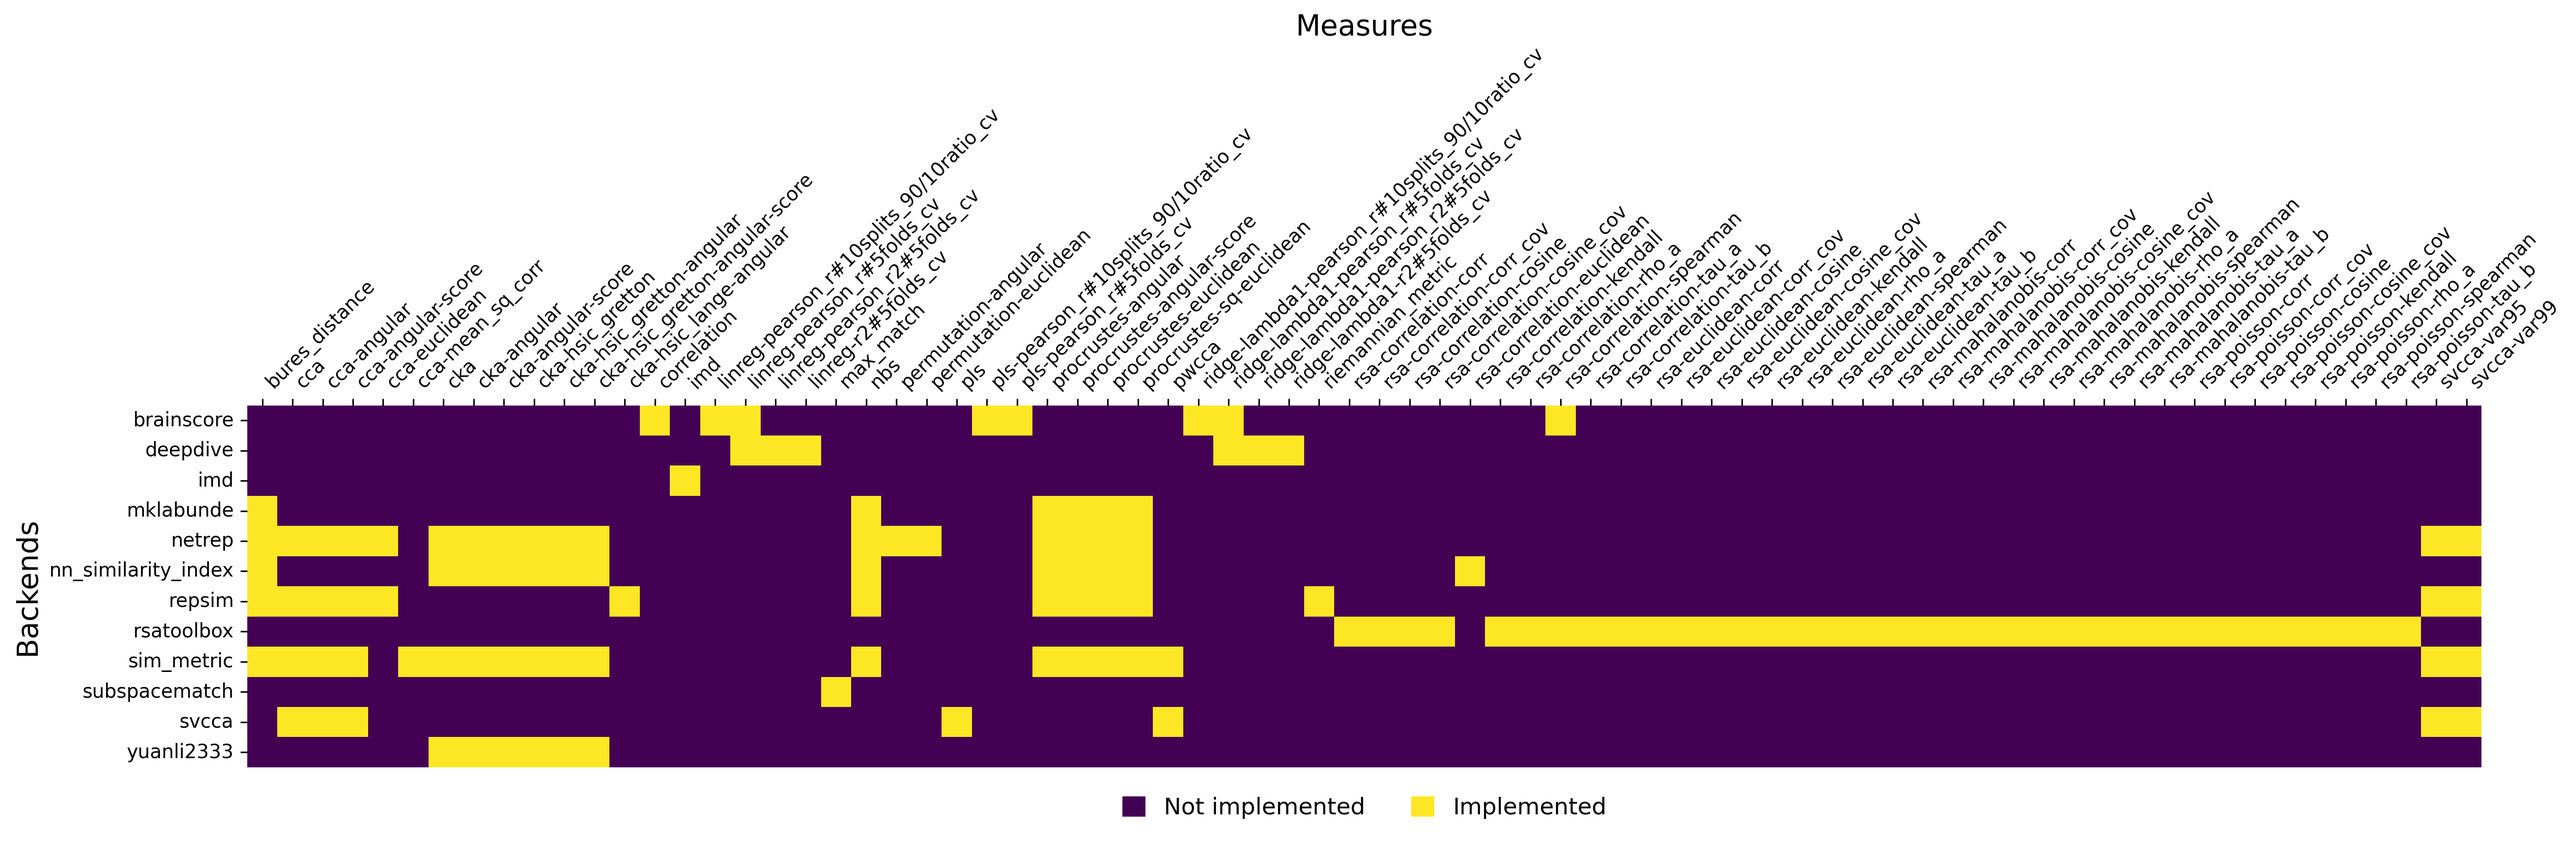
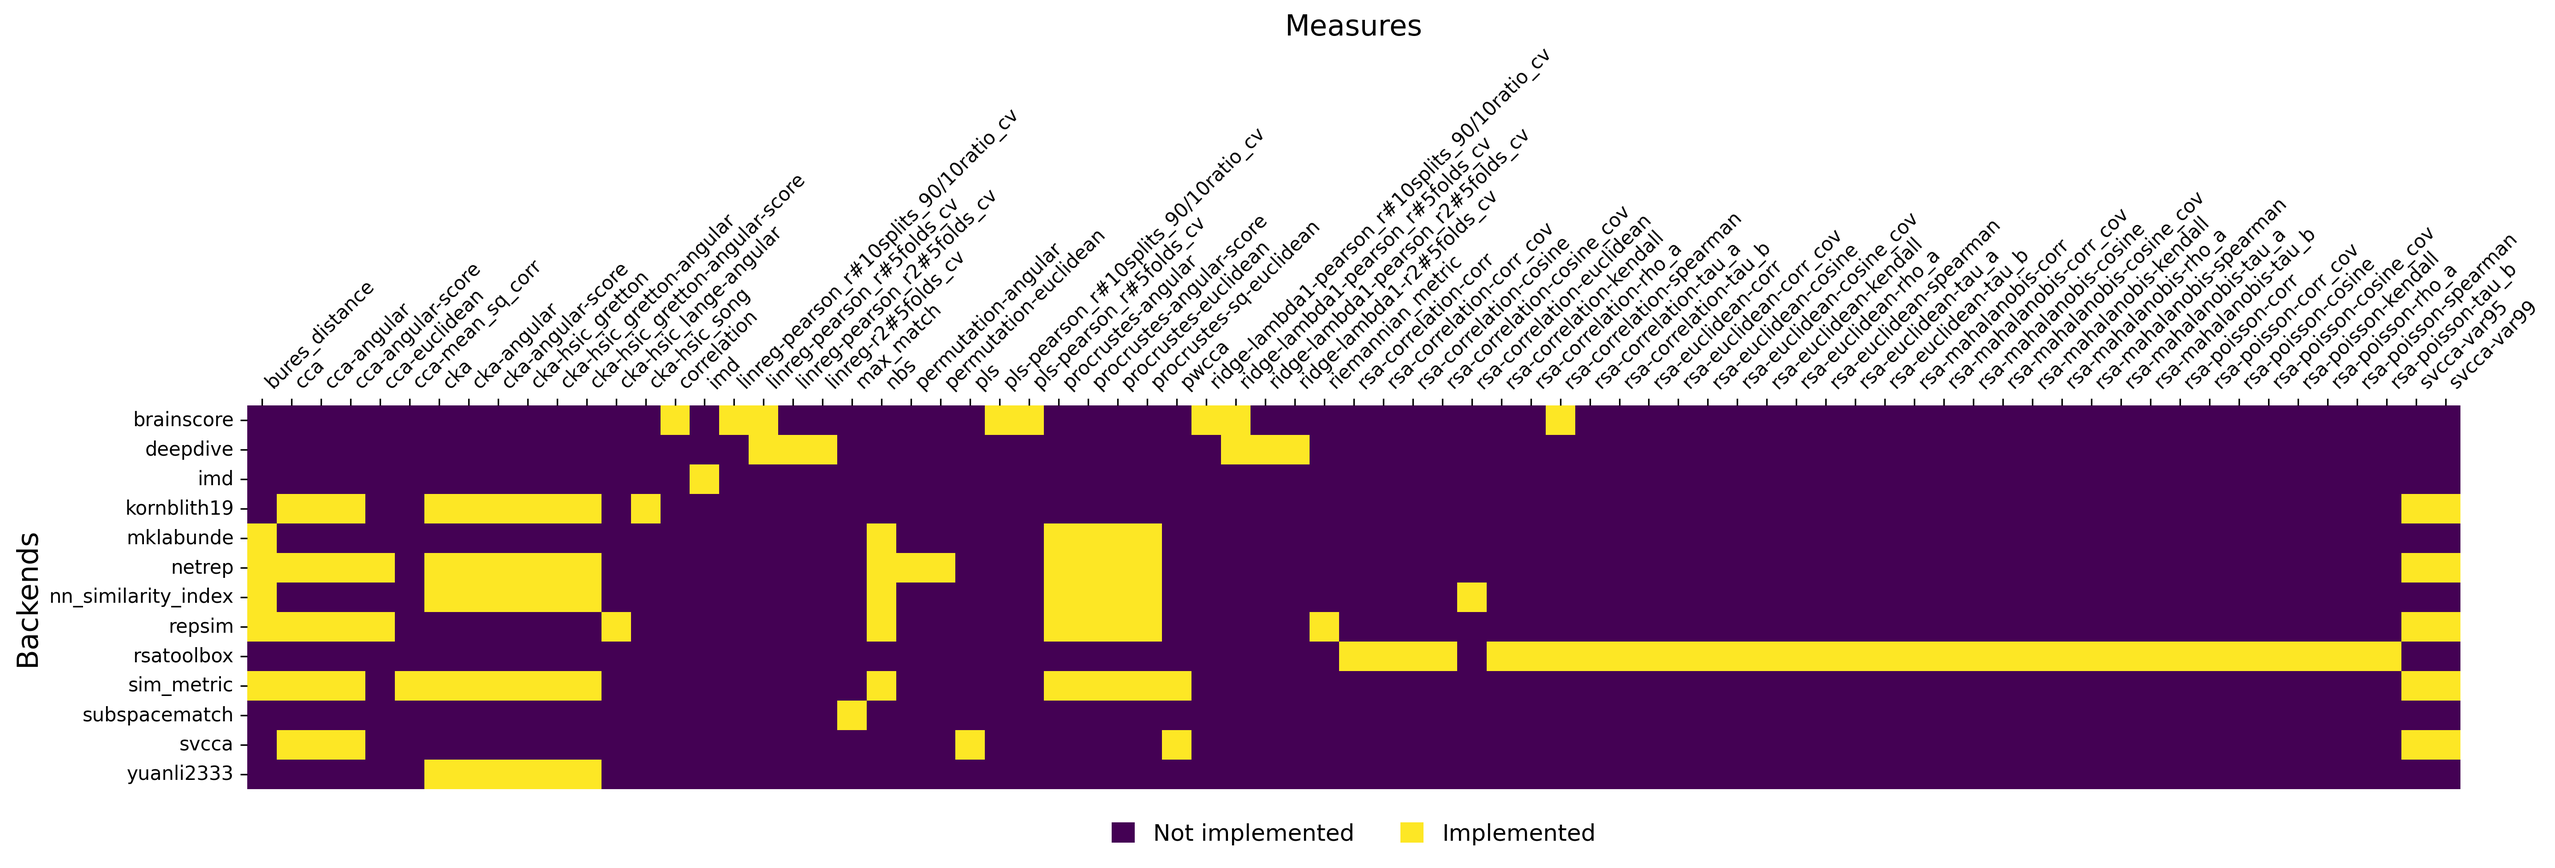
add kornblith19

diff --git a/similarity/backend/kornblith19/__init__.py b/similarity/backend/kornblith19/__init__.py
@@ -1,0 +1,247 @@
+"""
+Code taken from https://github.com/google-research/google-research/blob/master/representation_similarity/Demo.ipynb
+"""
+from functools import partial
+import numpy as np
+
+import similarity
+
+similarity.register(
+    "measure.kornblith19",
+    {
+        "paper_id": "kornblith2019",
+        "github": "https://github.com/google-research/google-research/blob/master/representation_similarity"
+    }
+)
+
+register = partial(
+  similarity.register,
+  function=True,
+  preprocessing=[
+    "reshape2d",
+    "center_columns"
+  ]
+)
+
+
+def gram_linear(x):
+  """Compute Gram (kernel) matrix for a linear kernel.
+
+  Args:
+    x: A num_examples x num_features matrix of features.
+
+  Returns:
+    A num_examples x num_examples Gram matrix of examples.
+  """
+  return x.dot(x.T)
+
+
+def gram_rbf(x, threshold=1.0):
+  """Compute Gram (kernel) matrix for an RBF kernel.
+
+  Args:
+    x: A num_examples x num_features matrix of features.
+    threshold: Fraction of median Euclidean distance to use as RBF kernel
+      bandwidth. (This is the heuristic we use in the paper. There are other
+      possible ways to set the bandwidth; we didn't try them.)
+
+  Returns:
+    A num_examples x num_examples Gram matrix of examples.
+  """
+  dot_products = x.dot(x.T)
+  sq_norms = np.diag(dot_products)
+  sq_distances = -2 * dot_products + sq_norms[:, None] + sq_norms[None, :]
+  sq_median_distance = np.median(sq_distances)
+  return np.exp(-sq_distances / (2 * threshold ** 2 * sq_median_distance))
+
+
+def center_gram(gram, unbiased=False):
+  """Center a symmetric Gram matrix.
+
+  This is equvialent to centering the (possibly infinite-dimensional) features
+  induced by the kernel before computing the Gram matrix.
+
+  Args:
+    gram: A num_examples x num_examples symmetric matrix.
+    unbiased: Whether to adjust the Gram matrix in order to compute an unbiased
+      estimate of HSIC. Note that this estimator may be negative.
+
+  Returns:
+    A symmetric matrix with centered columns and rows.
+  """
+  if not np.allclose(gram, gram.T):
+    raise ValueError('Input must be a symmetric matrix.')
+  gram = gram.copy()
+
+  if unbiased:
+    # This formulation of the U-statistic, from Szekely, G. J., & Rizzo, M.
+    # L. (2014). Partial distance correlation with methods for dissimilarities.
+    # The Annals of Statistics, 42(6), 2382-2412, seems to be more numerically
+    # stable than the alternative from Song et al. (2007).
+    n = gram.shape[0]
+    np.fill_diagonal(gram, 0)
+    means = np.sum(gram, 0, dtype=np.float64) / (n - 2)
+    means -= np.sum(means) / (2 * (n - 1))
+    gram -= means[:, None]
+    gram -= means[None, :]
+    np.fill_diagonal(gram, 0)
+  else:
+    means = np.mean(gram, 0, dtype=np.float64)
+    means -= np.mean(means) / 2
+    gram -= means[:, None]
+    gram -= means[None, :]
+
+  return gram
+
+
+def cka(gram_x, gram_y, debiased=False):
+  """Compute CKA.
+
+  Args:
+    gram_x: A num_examples x num_examples Gram matrix.
+    gram_y: A num_examples x num_examples Gram matrix.
+    debiased: Use unbiased estimator of HSIC. CKA may still be biased.
+
+  Returns:
+    The value of CKA between X and Y.
+  """
+  gram_x = center_gram(gram_x, unbiased=debiased)
+  gram_y = center_gram(gram_y, unbiased=debiased)
+
+  # Note: To obtain HSIC, this should be divided by (n-1)**2 (biased variant) or
+  # n*(n-3) (unbiased variant), but this cancels for CKA.
+  scaled_hsic = gram_x.ravel().dot(gram_y.ravel())
+
+  normalization_x = np.linalg.norm(gram_x)
+  normalization_y = np.linalg.norm(gram_y)
+  return scaled_hsic / (normalization_x * normalization_y)
+
+
+def _debiased_dot_product_similarity_helper(
+    xty, sum_squared_rows_x, sum_squared_rows_y, squared_norm_x, squared_norm_y,
+    n):
+  """Helper for computing debiased dot product similarity (i.e. linear HSIC)."""
+  # This formula can be derived by manipulating the unbiased estimator from
+  # Song et al. (2007).
+  return (
+      xty - n / (n - 2.) * sum_squared_rows_x.dot(sum_squared_rows_y)
+      + squared_norm_x * squared_norm_y / ((n - 1) * (n - 2)))
+
+
+def feature_space_linear_cka(features_x, features_y, debiased=False):
+  """Compute CKA with a linear kernel, in feature space.
+
+  This is typically faster than computing the Gram matrix when there are fewer
+  features than examples.
+
+  Args:
+    features_x: A num_examples x num_features matrix of features.
+    features_y: A num_examples x num_features matrix of features.
+    debiased: Use unbiased estimator of dot product similarity. CKA may still be
+      biased. Note that this estimator may be negative.
+
+  Returns:
+    The value of CKA between X and Y.
+  """
+  features_x = features_x - np.mean(features_x, 0, keepdims=True)
+  features_y = features_y - np.mean(features_y, 0, keepdims=True)
+
+  dot_product_similarity = np.linalg.norm(features_x.T.dot(features_y)) ** 2
+  normalization_x = np.linalg.norm(features_x.T.dot(features_x))
+  normalization_y = np.linalg.norm(features_y.T.dot(features_y))
+
+  if debiased:
+    n = features_x.shape[0]
+    # Equivalent to np.sum(features_x ** 2, 1) but avoids an intermediate array.
+    sum_squared_rows_x = np.einsum('ij,ij->i', features_x, features_x)
+    sum_squared_rows_y = np.einsum('ij,ij->i', features_y, features_y)
+    squared_norm_x = np.sum(sum_squared_rows_x)
+    squared_norm_y = np.sum(sum_squared_rows_y)
+
+    dot_product_similarity = _debiased_dot_product_similarity_helper(
+        dot_product_similarity, sum_squared_rows_x, sum_squared_rows_y,
+        squared_norm_x, squared_norm_y, n)
+    normalization_x = np.sqrt(_debiased_dot_product_similarity_helper(
+        normalization_x ** 2, sum_squared_rows_x, sum_squared_rows_x,
+        squared_norm_x, squared_norm_x, n))
+    normalization_y = np.sqrt(_debiased_dot_product_similarity_helper(
+        normalization_y ** 2, sum_squared_rows_y, sum_squared_rows_y,
+        squared_norm_y, squared_norm_y, n))
+
+  return dot_product_similarity / (normalization_x * normalization_y)
+
+
+def cca(features_x, features_y):
+  """Compute the mean squared CCA correlation (R^2_{CCA}).
+
+  Args:
+    features_x: A num_examples x num_features matrix of features.
+    features_y: A num_examples x num_features matrix of features.
+
+  Returns:
+    The mean squared CCA correlations between X and Y.
+  """
+  qx, _ = np.linalg.qr(features_x)  # Or use SVD with full_matrices=False.
+  qy, _ = np.linalg.qr(features_y)
+  return np.linalg.norm(qx.T.dot(qy)) ** 2 / min(
+      features_x.shape[1], features_y.shape[1])
+
+
+# register measures (not part of the original code)
+# TODO: different ids for feature space and gram matrix cka? (one is faster if num_features < num_examples)
+register("measure.kornblith19.cka-hsic_gretton", feature_space_linear_cka)
+register("measure.kornblith19.cka-hsic_song", partial(feature_space_linear_cka, debiased=True))
+register("measure.kornblith19.cca", cca)
+# TODO: nonlinear cka
+# register("measure.kornblith19.cka-hsic_gretton-rbf")
+
+
+if __name__ == "__main__":
+    np.random.seed(1337)
+    X = np.random.randn(100, 10)
+    Y = np.random.randn(100, 10) + X
+
+    cka_from_examples = cka(gram_linear(X), gram_linear(Y))
+    cka_from_features = feature_space_linear_cka(X, Y)
+
+    print('Linear CKA from Examples: {:.5f}'.format(cka_from_examples))
+    print('Linear CKA from Features: {:.5f}'.format(cka_from_features))
+    np.testing.assert_almost_equal(cka_from_examples, cka_from_features)
+
+    rbf_cka = cka(gram_rbf(X, 0.5), gram_rbf(Y, 0.5))
+    print('RBF CKA: {:.5f}'.format(rbf_cka))
+
+    cka_from_examples_debiased = cka(gram_linear(X), gram_linear(Y), debiased=True)
+    cka_from_features_debiased = feature_space_linear_cka(X, Y, debiased=True)
+
+    print('Linear CKA from Examples (Debiased): {:.5f}'.format(
+        cka_from_examples_debiased))
+    print('Linear CKA from Features (Debiased): {:.5f}'.format(
+        cka_from_features_debiased))
+
+    np.testing.assert_almost_equal(cka_from_examples_debiased,
+                                cka_from_features_debiased)
+
+    print('Mean Squared CCA Correlation: {:.5f}'.format(cca(X, Y)))
+
+
+    transform = np.random.randn(10, 10)
+    _, orthogonal_transform = np.linalg.eigh(transform.T.dot(transform))
+
+    # CKA is invariant only to orthogonal transformations.
+    np.testing.assert_almost_equal(
+        feature_space_linear_cka(X, Y),
+        feature_space_linear_cka(X.dot(orthogonal_transform), Y))
+    np.testing.assert_(not np.isclose(
+        feature_space_linear_cka(X, Y),
+        feature_space_linear_cka(X.dot(transform), Y)))
+
+    # CCA is invariant to any invertible linear transform.
+    np.testing.assert_almost_equal(cca(X, Y), cca(X.dot(orthogonal_transform), Y))
+    np.testing.assert_almost_equal(cca(X, Y), cca(X.dot(transform), Y))
+
+    # Both CCA and CKA are invariant to isotropic scaling.
+    np.testing.assert_almost_equal(cca(X, Y), cca(X * 1.337, Y))
+    np.testing.assert_almost_equal(
+        feature_space_linear_cka(X, Y),
+        feature_space_linear_cka(X * 1.337, Y))

diff --git a/tests/test_registration.py b/tests/test_registration.py
@@ -4,7 +4,10 @@ from matplotlib.patches import Patch
 
 import similarity
 from similarity import make
+from similarity.transforms import DERIVED_MEASURES
 
+print(len(DERIVED_MEASURES))
+print(DERIVED_MEASURES)
 
 def test_measures():
     measures = make("measure.*.*")
@@ -43,6 +46,9 @@ def backend_consistency(plot_paper_id=True, plot_values=True, save_path=None):
         results["backend"].append(backend)
         results["measure"].append(measure_name)
         results["score"].append(score)
+        results["derived"].append(measure_id in DERIVED_MEASURES)
+
+    # TODO: different color for derived
 
     # convert to 2d dataframe (backend x measure)
     backend_df = pd.DataFrame(results).pivot(index="backend", columns="measure", values="score")
@@ -62,7 +68,8 @@ def backend_consistency(plot_paper_id=True, plot_values=True, save_path=None):
                 paper_id = cfg.get("paper_id", backend)
             else:
                 paper_id = backend
-
+            
+            print(paper_id)
             y_labels.append(paper_id)
 
         # rename backend_df
@@ -124,6 +131,9 @@ if __name__ == "__main__":
     save_dir = Path(__file__).parent / ".." / "figures"
     backend_consistency(plot_paper_id=False, plot_values=True, save_path=save_dir / "backend_consistency.png")
     backend_consistency(plot_paper_id=False, plot_values=False, save_path=save_dir / "implemented_measures.png")
+
+    # TODO
+    # backend_consistency(plot_paper_id=True, plot_values=True, save_path=save_dir / "backend_consistency_by_paper.png")
 
     test_measures()
     test_cards()

diff --git a/similarity/transforms.py b/similarity/transforms.py
@@ -43,8 +43,10 @@ transforms = [
     {"inp": "bures_distance", "out": "procrustes-euclidean", "postprocessing": []},
     {"inp": "procrustes-euclidean", "out": "bures_distance", "postprocessing": []},
 
-    # CKA by default refers to the Gretton2007 estimate of HSIC
+    # by default CKA usually refers to the Gretton2007 estimate of HSIC
+    # see https://proceedings.mlr.press/v221/lange23a/lange23a.pdf Appendix B. for a review of different CKA variants
     {"inp": "cka", "out": "cka-hsic_gretton", "postprocessing": []},
+    {"inp": "cka-hsic_gretton", "out": "cka", "postprocessing": []},
     {"inp": "cka-angular", "out": "cka-hsic_gretton-angular", "postprocessing": []},
     {"inp": "cka-angular-score", "out": "cka-hsic_gretton-angular-score", "postprocessing": []},
 
@@ -159,9 +161,13 @@ def add_inverse_transforms(transforms, inverse_functions):
 # add inverse transforms to the list of transforms
 transforms = add_inverse_transforms(transforms, inverse_functions)
 
+# keep track of which measures were derived
+DERIVED_MEASURES = []
+
 # recursively register derived measures until no more derived measures are registered
 done = False
 while not done:
     for transform in transforms:
         registered_ids = register_derived_measures(transform)
         done = len(registered_ids) == 0
+        DERIVED_MEASURES.extend(registered_ids)

diff --git a/similarity/backend/__init__.py b/similarity/backend/__init__.py
@@ -2,13 +2,14 @@
 Register similarity measures from different backends.
 """
 from . import yuanli2333
-from . import mklabunde
-from . import sim_metric
-from . import rsatoolbox
-from . import deepdive
+from . import kornblith19
 from . import netrep
+from . import mklabunde
+from . import rsatoolbox
 from . import repsim
 from . import nn_similarity_index
+from . import sim_metric
+from . import deepdive
 from . import brainscore
 from . import svcca
 from . import subspacematch
